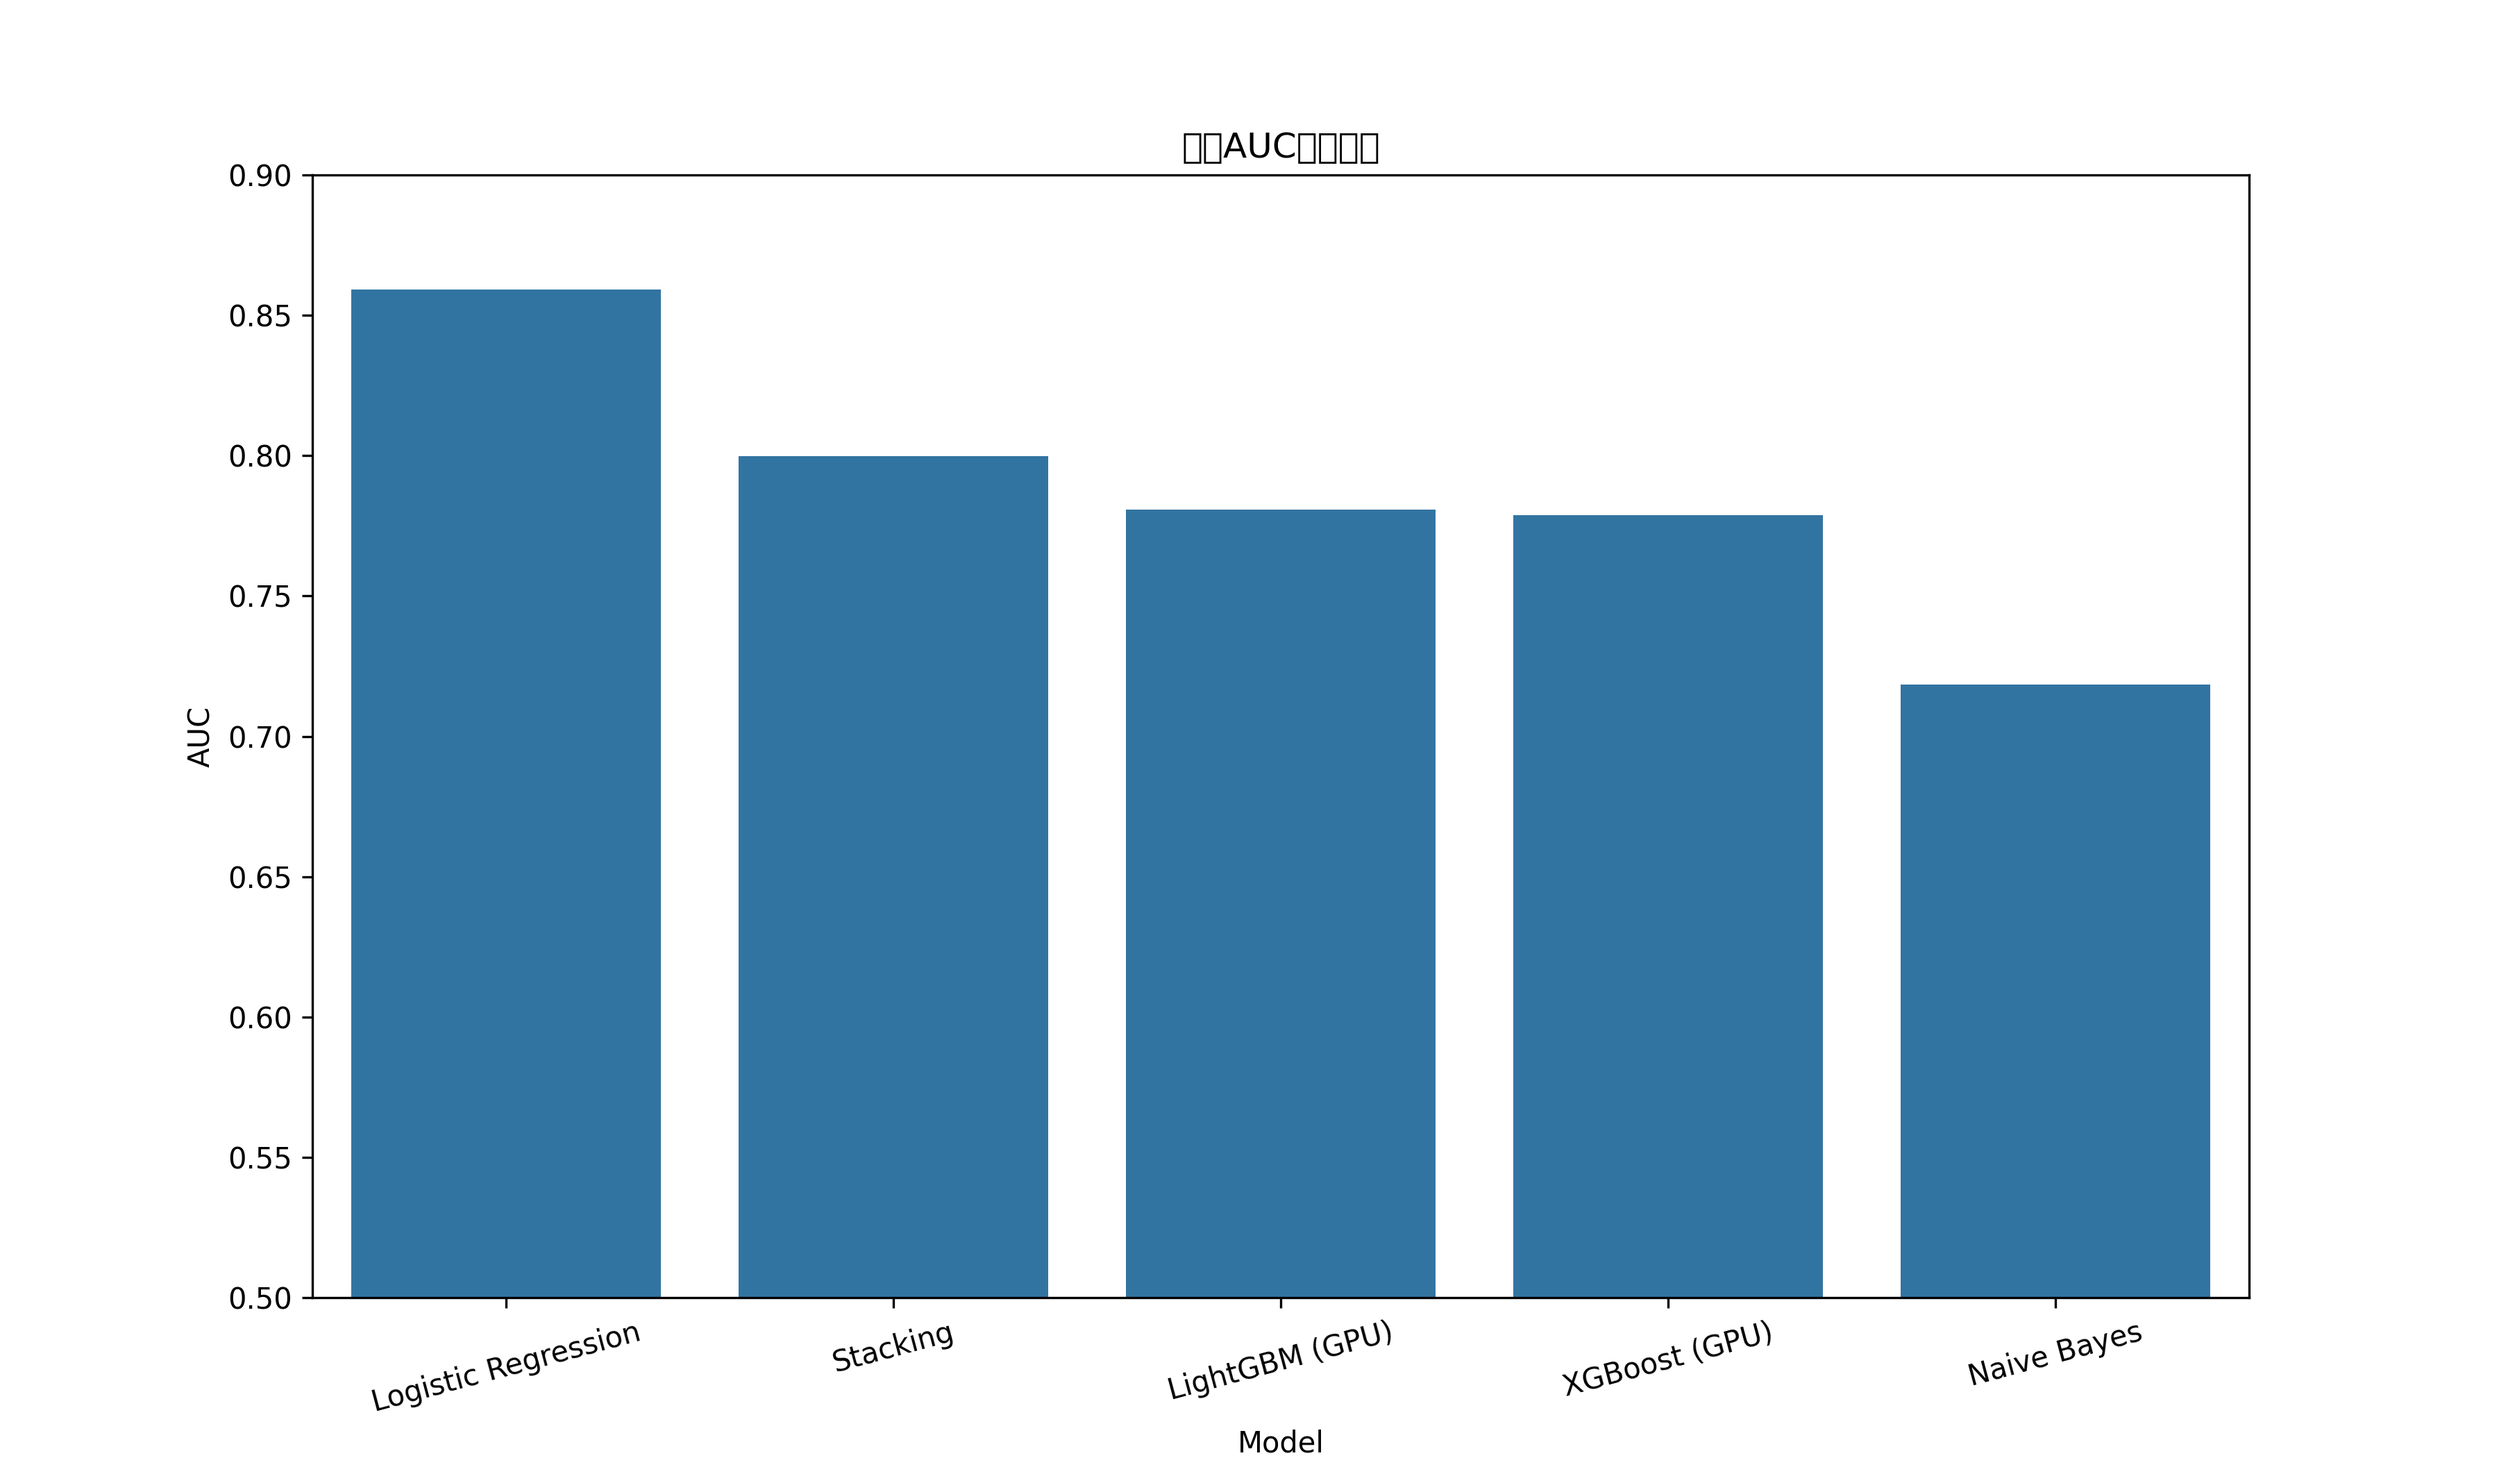
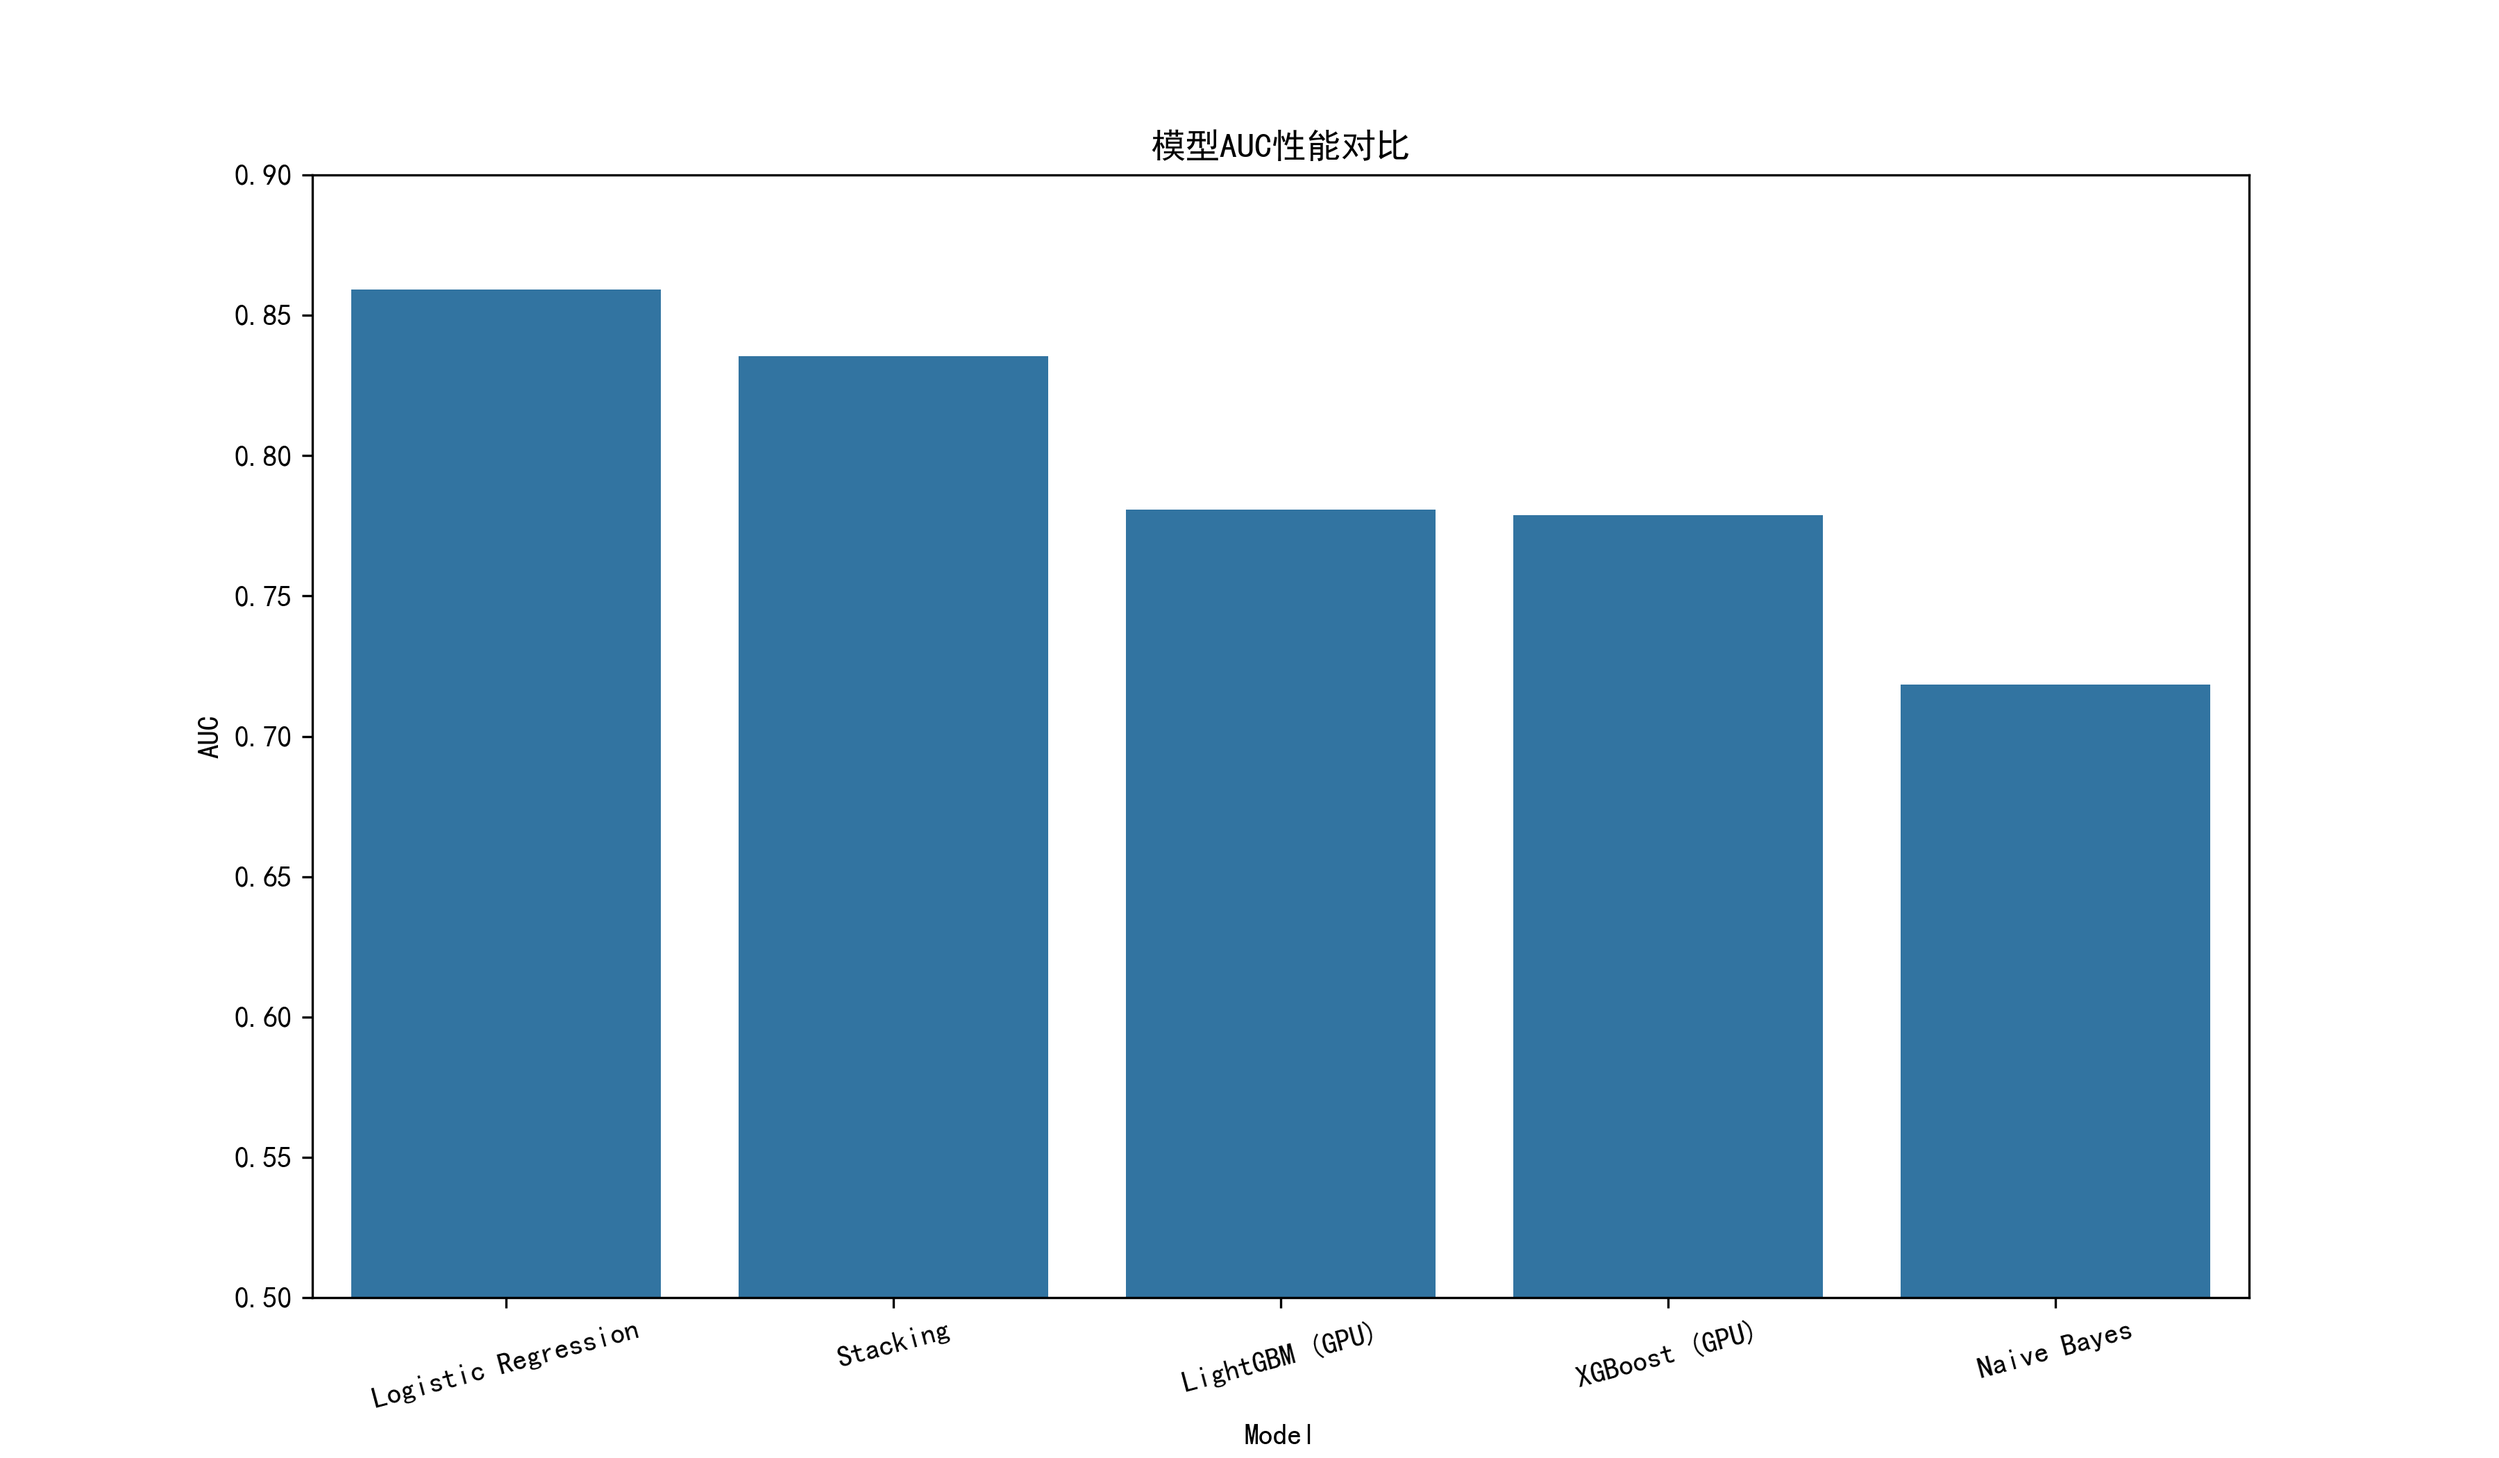
Add files via upload

diff --git a/SantanderCustomerTransactionPrediction/1.py b/SantanderCustomerTransactionPrediction/1.py
@@ -1,6 +1,3 @@
-# ======================
-# 1. 环境配置与数据加载
-# ======================
 import numpy as np
 import pandas as pd
 import matplotlib.pyplot as plt
@@ -21,6 +18,7 @@ plt.rcParams['font.sans-serif'] = ['SimHei']  # Windows
 plt.rcParams['axes.unicode_minus'] = False
 warnings.filterwarnings('ignore')
 
+# 1. 环境配置与数据加载
 # 设置文件路径
 TRAIN_PATH = r"E:\py\1\SantanderCustomerTransactionPrediction\train.csv"
 TEST_PATH = r"E:\py\1\SantanderCustomerTransactionPrediction\test.csv"
@@ -38,10 +36,7 @@ print(f"正在加载测试数据: {TEST_PATH}")
 test = pd.read_csv(TEST_PATH)
 print(f"测试集已加载，形状: {test.shape}")
 
-# ======================
 # 2. 数据预处理
-# ======================
-
 # 合并训练集和测试集
 print("合并训练集和测试集...")
 full_data = pd.concat([train.drop('target', axis=1), test], axis=0)
@@ -69,10 +64,8 @@ else:
         full_data.drop(columns=high_missing_cols, inplace=True)
         print(f"已删除{len(high_missing_cols)}个缺失率>30%的特征")
 
-# ======================
-# 3. 数据探索与分析
-# ======================
 
+# 3. 数据探索与分析
 # 目标变量分布可视化
 plt.figure(figsize=(10, 6))
 sns.countplot(x='target', data=train)
@@ -91,9 +84,7 @@ print(f"\n类别分布统计:")
 print(f"负样本数量: {neg_count} ({neg_count / (neg_count + pos_count):.2%})")
 print(f"正样本数量: {pos_count} ({pos_count / (neg_count + pos_count):.2%})")
 
-# ======================
 # 4. 特征工程
-# ======================
 
 # 特征标准化
 print("\n应用特征标准化...")
@@ -120,9 +111,7 @@ X_train, X_val, y_train, y_val = train_test_split(
 )
 print(f"训练集形状: {X_train.shape}, 验证集形状: {X_val.shape}")
 
-# ======================
 # 5. 样本不平衡处理
-# ======================
 
 # 应用SMOTE过采样
 print("\n应用SMOTE过采样处理样本不平衡...")
@@ -135,9 +124,8 @@ print(f"负样本数量: {sum(y_res == 0)}")
 print(f"正样本数量: {sum(y_res == 1)}")
 print(f"正样本比例: {sum(y_res == 1) / len(y_res):.1%}")
 
-# ======================
+
 # 6. GPU加速模型构建
-# ======================
 
 print("\n开始训练GPU加速模型...")
 
@@ -230,9 +218,8 @@ plt.savefig(roc_path, dpi=300)
 print(f"\nROC曲线图已保存至: {roc_path}")
 plt.close()
 
-# ======================
+
 # 7. 模型优化与集成
-# ======================
 
 # XGBoost超参数调优
 print("\n开始XGBoost超参数调优...")
@@ -271,7 +258,7 @@ print(f"最优AUC: {grid_search.best_score_:.4f}")
 # 构建Stacking集成模型
 print("\n构建Stacking集成模型...")
 base_models = [
-    ('nb', GaussianNB()),
+    ('Logistic Regression',  LogisticRegression(C=0.01, solver='sag', max_iter=1000)),
     ('xgb', best_xgb),
     ('lgbm', LGBMClassifier(
         device='gpu',
@@ -291,7 +278,7 @@ stack_model = StackingClassifier(
         class_weight=class_weights
     ),
     cv=5,
-    n_jobs=1  # GPU不支持多进程
+    n_jobs=1
 )
 
 # 训练集成模型
@@ -328,9 +315,7 @@ results_df.to_csv(results_csv, index=False)
 print(f"\n模型性能对比已保存至: {results_csv}")
 print(results_df)
 
-# ======================
 # 8. 生成预测结果
-# ======================
 
 # 在完整训练集上重新训练模型
 print("\n在完整训练集上重新训练最终模型...")
@@ -358,9 +343,7 @@ submission = pd.DataFrame({
 submission.to_csv(submission_path, index=False)
 print(f"预测结果已保存至: {submission_path}")
 
-# ======================
 # 9. 模型分析报告
-# ======================
 
 # 生成模型分析报告
 plt.figure(figsize=(12, 7))
